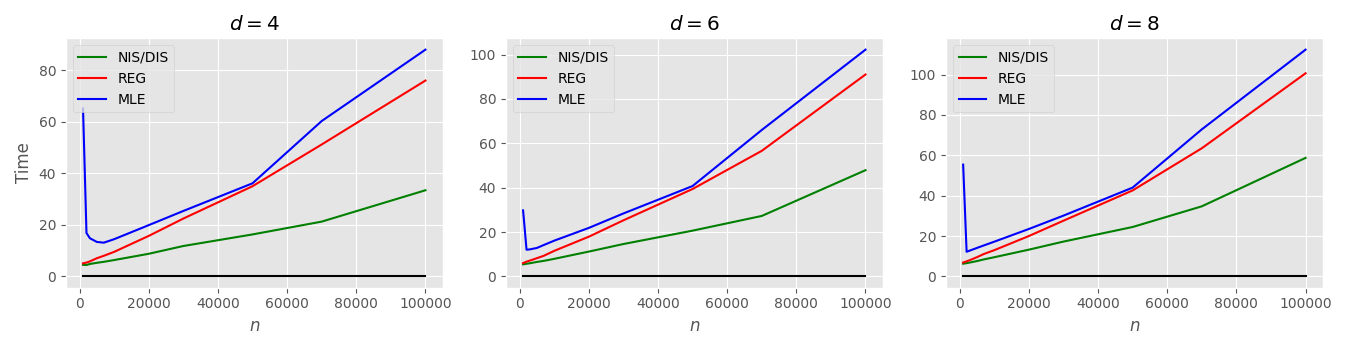
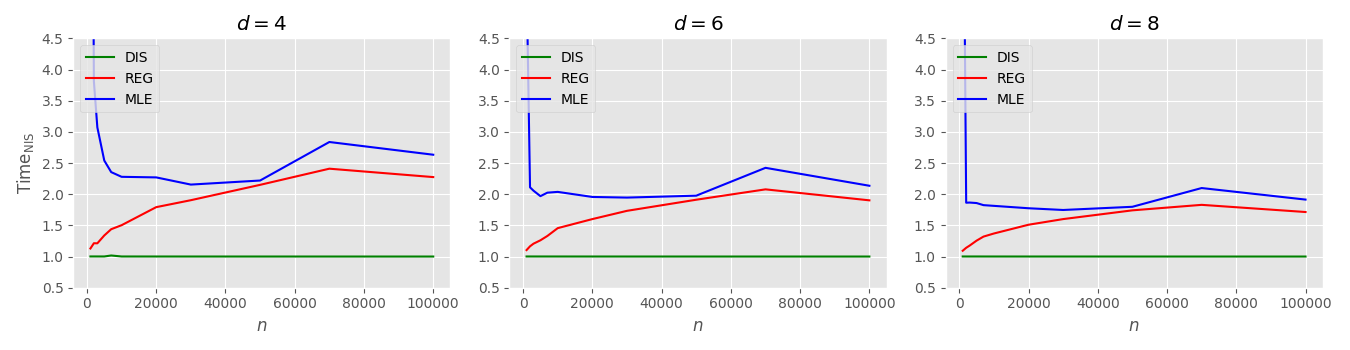
abc

diff --git a/niscv_v2/analysis/simulation/sample_cost_D.py b/niscv_v2/analysis/simulation/sample_cost_D.py
@@ -12,10 +12,11 @@ def read(dim):
 
 def draw(dim, ax):
     data = read(dim).sum(axis=0)
-    group = [[1, 2, 3], [1, 2, 3, 5], [1, 2, 3, 6]]
+    group = [[1, 3], [1, 2, 3], [1, 2, 3, 5], [1, 2, 3, 6]]
     data = np.array([data[:, gp].sum(axis=1) for gp in group])
+    data = data[1:] / data[0]
     size_ests = [1000, 2000, 3000, 5000, 7000, 10000, 20000, 30000, 50000, 70000, 100000]
-    labels = ['NIS/DIS', 'REG', 'MLE']
+    labels = ['DIS', 'REG', 'MLE']
     colors = ['g', 'r', 'b']
     for i, dat in enumerate(data):
         ax.plot(size_ests, dat, label=labels[i], color=colors[i])
@@ -27,12 +28,13 @@ def main():
     ax = ax.flatten()
     for i, dim in enumerate([4, 6, 8]):
         draw(dim, ax[i])
-        ax[i].plot([1000, 100000], [0, 0], color='k')
+        # ax[i].plot([1000, 100000], [0, 0], color='k')
         ax[i].set_title('$d={}$'.format(dim))
         ax[i].legend(loc=2)
         if dim == 4:
-            ax[i].set_ylabel('Time')
+            ax[i].set_ylabel('$\mathrm{Time}_\mathrm{NIS}$')
 
+        ax[i].set_ylim([0.5, 4.5])
         ax[i].set_xlabel('$n$')
 
     fig.tight_layout()

diff --git a/niscv_v2/analysis/simulation/kernel_cost_D.py b/niscv_v2/analysis/simulation/kernel_cost_D.py
@@ -12,10 +12,11 @@ def read(dim):
 
 def draw(dim, ax):
     data = read(dim).sum(axis=0)
-    group = [[1, 2, 3], [1, 2, 3, 5], [1, 2, 3, 6]]
+    group = [[1, 3], [1, 2, 3], [1, 2, 3, 5], [1, 2, 3, 6]]
     data = np.array([data[:, gp].sum(axis=1) for gp in group])
+    data = data[1:] / data[0]
     size_kns = [50, 100, 150, 200, 250, 300, 350, 400, 450, 500]
-    labels = ['NIS/DIS', 'REG', 'MLE']
+    labels = ['DIS', 'REG', 'MLE']
     colors = ['g', 'r', 'b']
     for i, dat in enumerate(data):
         ax.plot(size_kns, dat, label=labels[i], color=colors[i])
@@ -27,12 +28,13 @@ def main():
     ax = ax.flatten()
     for i, dim in enumerate([4, 6, 8]):
         draw(dim, ax[i])
-        ax[i].plot([50, 500], [0, 0], color='k')
+        # ax[i].plot([50, 500], [0, 0], color='k')
         ax[i].set_title('$d={}$'.format(dim))
         ax[i].legend(loc=2)
         if dim == 4:
-            ax[i].set_ylabel('Time')
+            ax[i].set_ylabel('$\mathrm{Time}_\mathrm{NIS}$')
 
+        ax[i].set_ylim([0.5, 4.5])
         ax[i].set_xlabel('$m$')
 
     fig.tight_layout()
